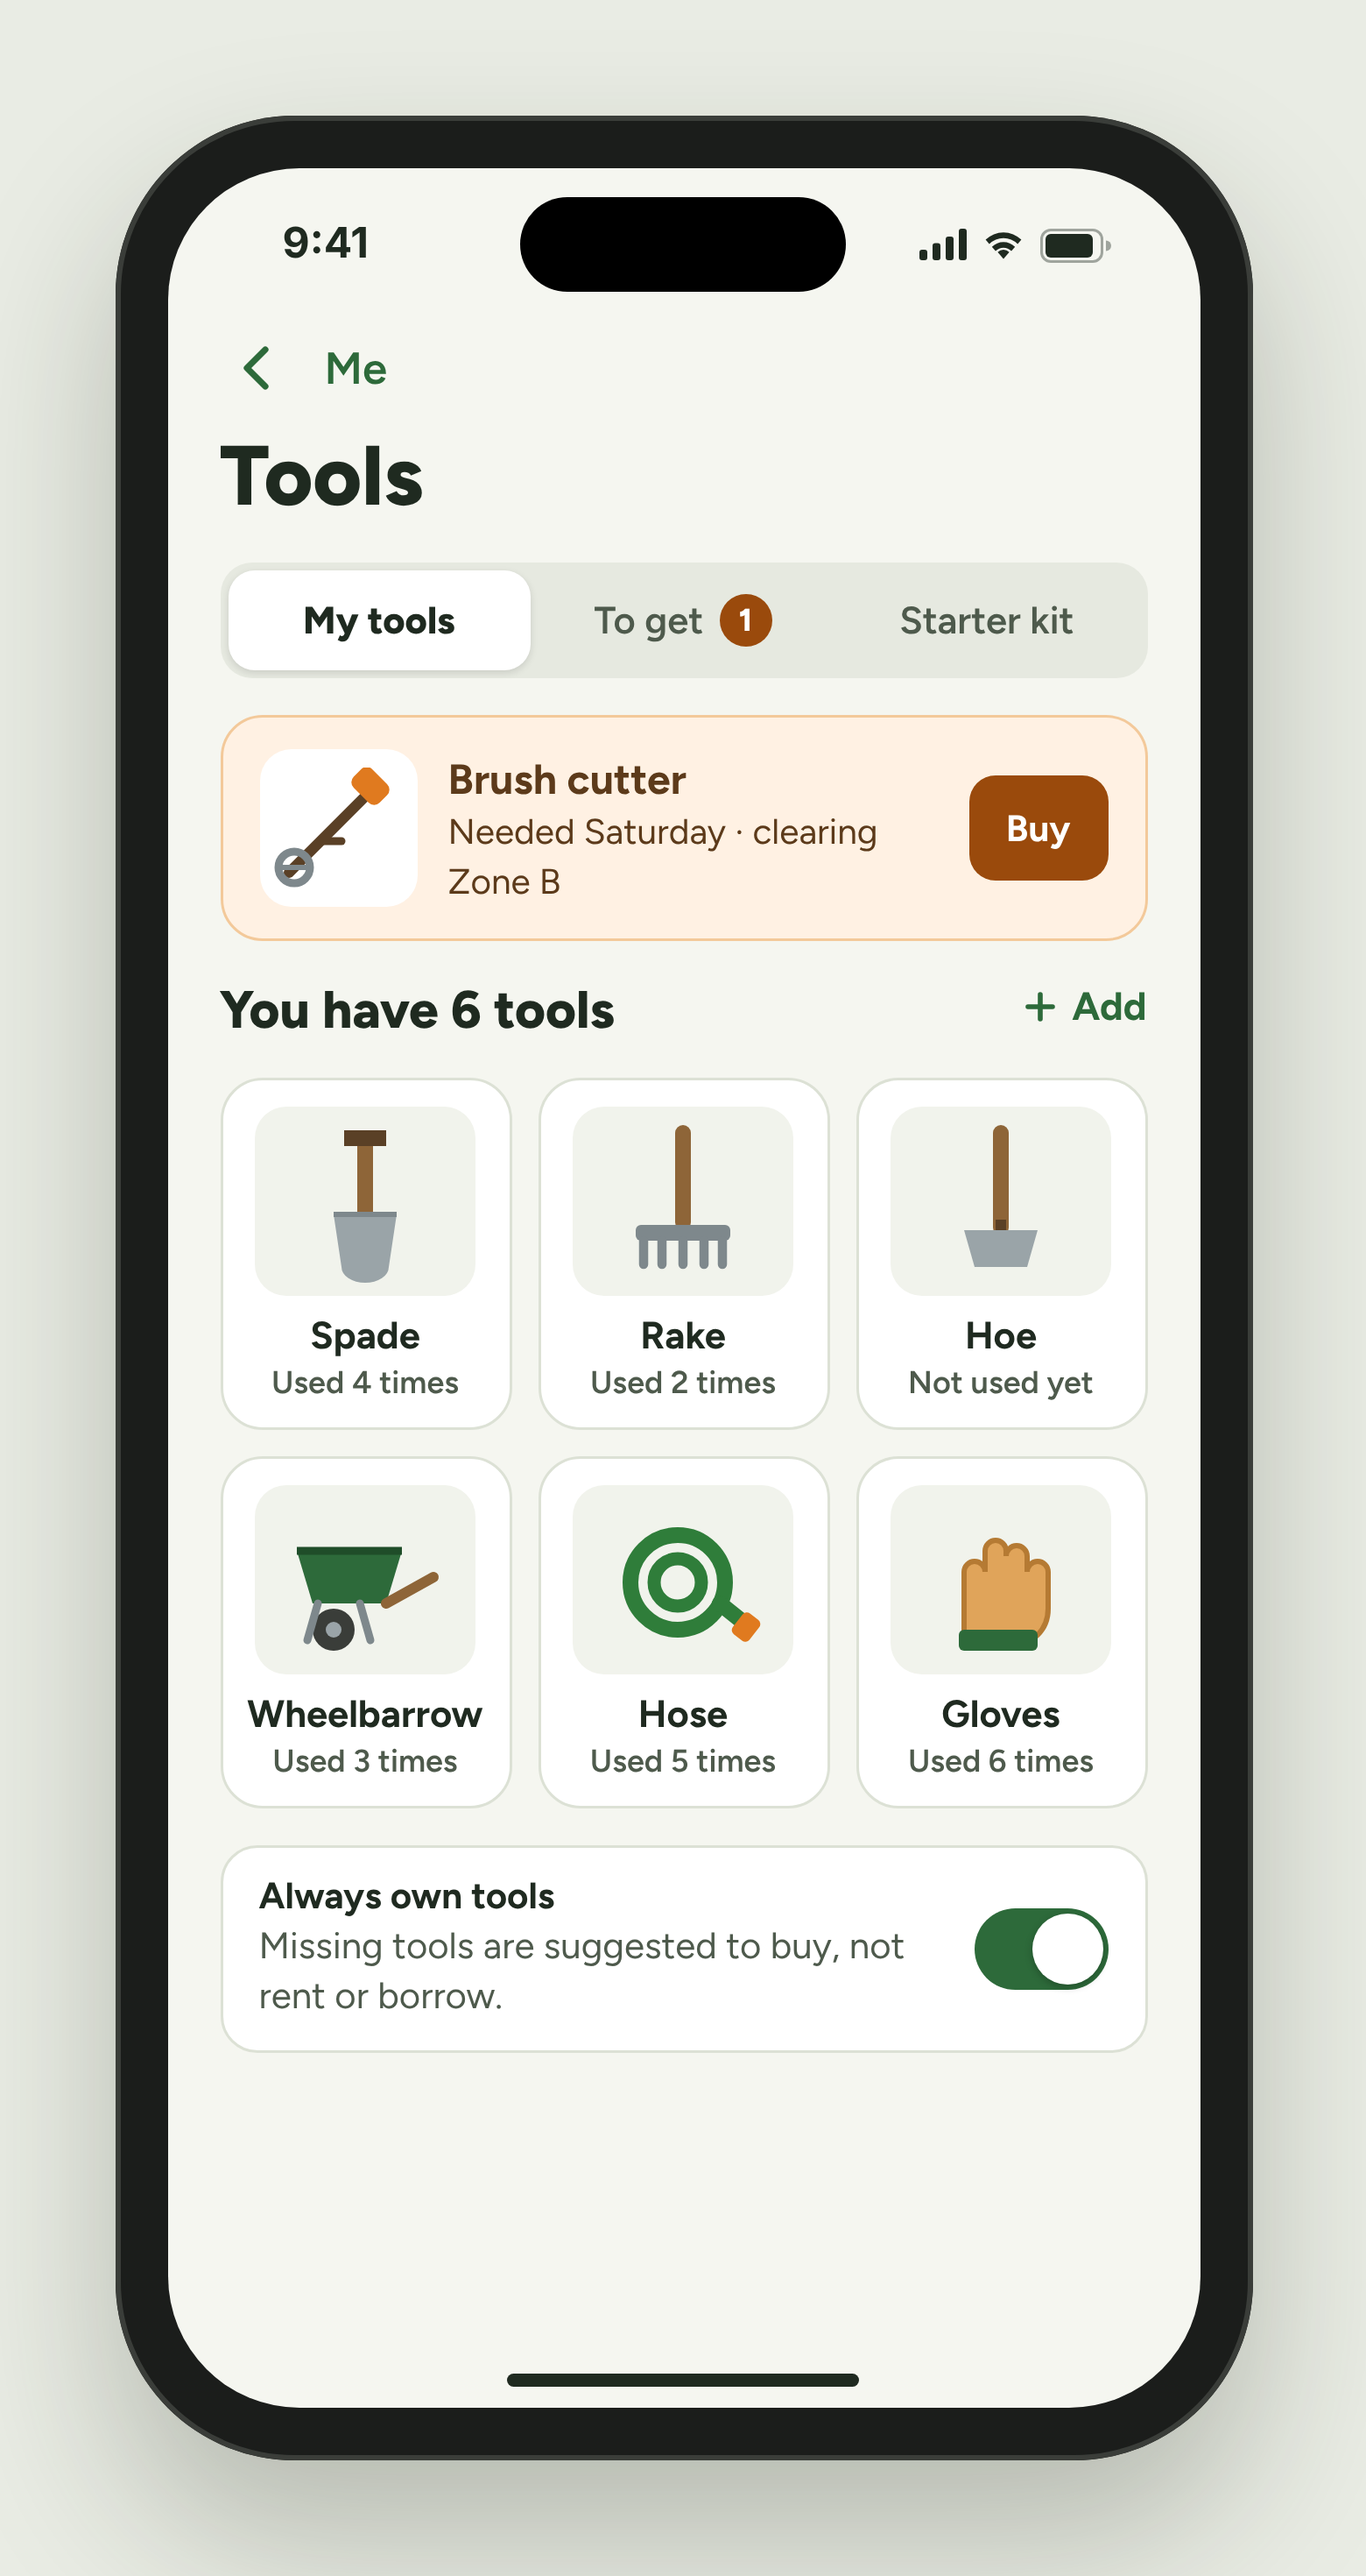
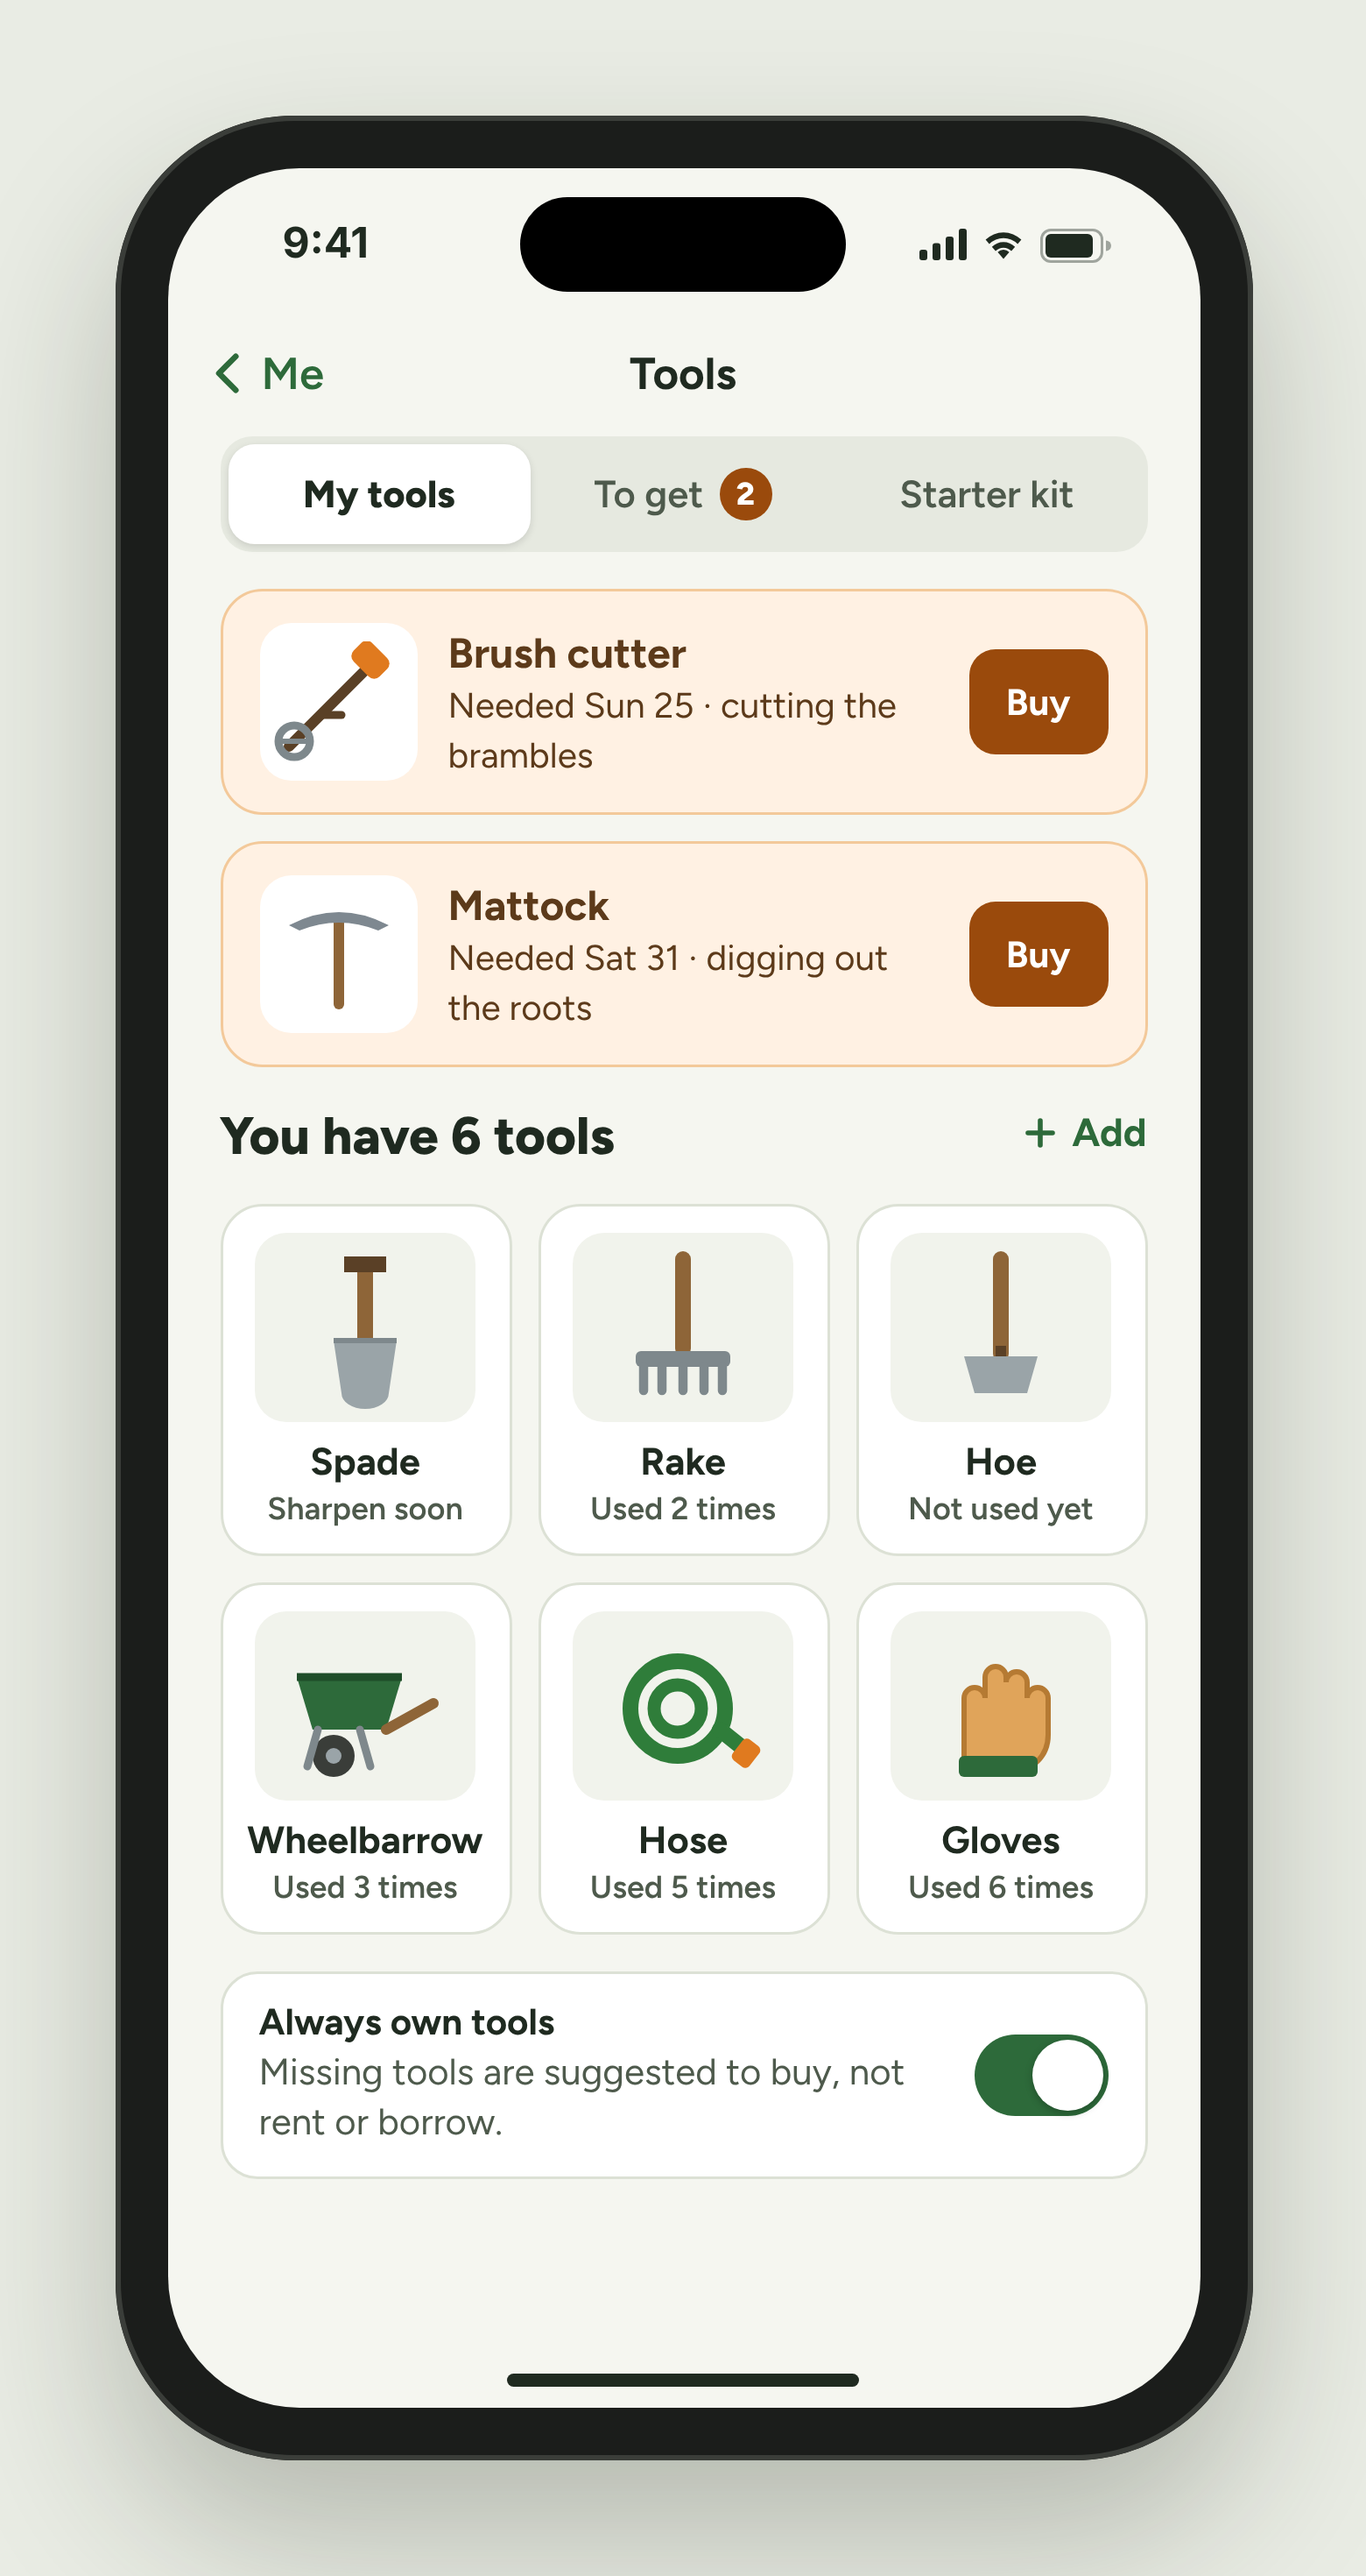
Design G4 tools: drill-down nav, brush cutter and mattock to get with dates, maintenance hint
Claude-Session: https://claude.ai/code/session_015NynAjU4naPZwzmeuGazot

diff --git a/design/source/G4-tools.html b/design/source/G4-tools.html
@@ -45,23 +45,28 @@
       <svg width="27" height="13" viewBox="0 0 27 13"><rect x="0.5" y="0.5" width="23" height="12" rx="3.5" fill="none" stroke="#1F2A20" opacity=".4"/><rect x="2" y="2" width="18" height="9" rx="2" fill="#1F2A20"/><path d="M25 4.5v4a2 2 0 0 0 0-4z" fill="#1F2A20" opacity=".4"/></svg>
     </span>
   </div>
-  <div class="nav">
-    <div class="back"><svg width="24" height="24" viewBox="0 0 24 24" fill="none" stroke="#2D6A3A" stroke-width="2.4" stroke-linecap="round" stroke-linejoin="round"><path d="M15 5l-7 7 7 7"/></svg></div>
-    <span style="font-size: 17px; color: var(--green); font-weight: 600">Me</span>
+  <div class="nav" style="position: relative; height: 48px">
+    <div style="display: flex; align-items: center; gap: 2px; color: var(--green); font-size: 17px; font-weight: 600; height: 44px"><svg width="22" height="22" viewBox="0 0 24 24" fill="none" stroke="#2D6A3A" stroke-width="2.4" stroke-linecap="round" stroke-linejoin="round"><path d="M15 5l-7 7 7 7"/></svg>Me</div>
+    <span style="position: absolute; left: 50%; transform: translateX(-50%); font-size: 17px; font-weight: 700">Tools</span>
   </div>
   <div class="body">
-    <h1>Tools</h1>
-    <div class="seg"><span class="on">My tools</span><span>To get <i class="badge">1</i></span><span>Starter kit</span></div>
+    <div class="seg"><span class="on">My tools</span><span>To get <i class="badge">2</i></span><span>Starter kit</span></div>
 
     <div class="missing">
       <div class="img"><svg width="50" height="46" viewBox="0 0 50 46"><path d="M6 40 L38 8" stroke="#5A4026" stroke-width="4" stroke-linecap="round"/><rect x="30" y="2" width="14" height="10" rx="3" fill="#E07A1F" transform="rotate(45 37 7)"/><circle cx="8" cy="38" r="6" fill="none" stroke="#7E888C" stroke-width="3"/><path d="M2 38 h12" stroke="#7E888C" stroke-width="2"/><path d="M18 28 h8" stroke="#5A4026" stroke-width="3" stroke-linecap="round"/></svg></div>
-      <div><b>Brush cutter</b><span>Needed Saturday · clearing Zone B</span></div>
+      <div><b>Brush cutter</b><span>Needed Sun 25 · cutting the brambles</span></div>
+      <div class="act">Buy</div>
+    </div>
+
+    <div class="missing" style="margin-top: -4px">
+      <div class="img"><svg width="50" height="46" viewBox="0 0 50 46"><path d="M25 42 L25 10" stroke="#8E6538" stroke-width="4" stroke-linecap="round"/><path d="M6 12 Q25 2 44 12 L40 14 Q25 8 10 14z" fill="#7E8890"/></svg></div>
+      <div><b>Mattock</b><span>Needed Sat 31 · digging out the roots</span></div>
       <div class="act">Buy</div>
     </div>
 
     <div class="hrow"><h2>You have 6 tools</h2><a><svg width="16" height="16" viewBox="0 0 24 24" fill="none" stroke="#2D6A3A" stroke-width="2.8" stroke-linecap="round"><path d="M12 5v14M5 12h14"/></svg>Add</a></div>
     <div class="grid">
-      <div class="tool"><div class="pic"><svg width="60" height="62" viewBox="0 0 60 62"><rect x="27" y="4" width="6" height="34" rx="3" fill="#8E6538"/><path d="M22 4 h16 v6 h-16z" fill="#5A4026"/><path d="M18 36 h24 l-3 20 a9 6 0 0 1-18 0z" fill="#9AA4A8"/><path d="M18 36 h24" stroke="#7E888C" stroke-width="2"/></svg></div><b>Spade</b><span>Used 4 times</span></div>
+      <div class="tool"><div class="pic"><svg width="60" height="62" viewBox="0 0 60 62"><rect x="27" y="4" width="6" height="34" rx="3" fill="#8E6538"/><path d="M22 4 h16 v6 h-16z" fill="#5A4026"/><path d="M18 36 h24 l-3 20 a9 6 0 0 1-18 0z" fill="#9AA4A8"/><path d="M18 36 h24" stroke="#7E888C" stroke-width="2"/></svg></div><b>Spade</b><span>Sharpen soon</span></div>
       <div class="tool"><div class="pic"><svg width="60" height="62" viewBox="0 0 60 62"><rect x="27" y="2" width="6" height="40" rx="3" fill="#8E6538"/><rect x="12" y="40" width="36" height="6" rx="2" fill="#7E888C"/><g stroke="#7E888C" stroke-width="3.5" stroke-linecap="round"><path d="M15 46v9M22 46v9M30 46v9M38 46v9M45 46v9"/></g></svg></div><b>Rake</b><span>Used 2 times</span></div>
       <div class="tool"><div class="pic"><svg width="60" height="62" viewBox="0 0 60 62"><rect x="27" y="2" width="6" height="42" rx="3" fill="#8E6538"/><path d="M16 42 h28 l-4 14 h-20z" fill="#9AA4A8"/><path d="M30 42 v-4" stroke="#5A4026" stroke-width="4"/></svg></div><b>Hoe</b><span>Not used yet</span></div>
       <div class="tool"><div class="pic"><svg width="64" height="62" viewBox="0 0 64 62"><path d="M6 20 h40 l-6 20 h-28z" fill="#2D6A3A"/><path d="M6 20 h40" stroke="#1F4D29" stroke-width="3"/><circle cx="20" cy="50" r="8" fill="#3A3D39"/><circle cx="20" cy="50" r="3" fill="#9AA4A8"/><path d="M40 40 L58 30" stroke="#8E6538" stroke-width="4" stroke-linecap="round"/><path d="M14 40 L10 54 M30 40 l4 14" stroke="#7E888C" stroke-width="3" stroke-linecap="round"/></svg></div><b>Wheelbarrow</b><span>Used 3 times</span></div>
